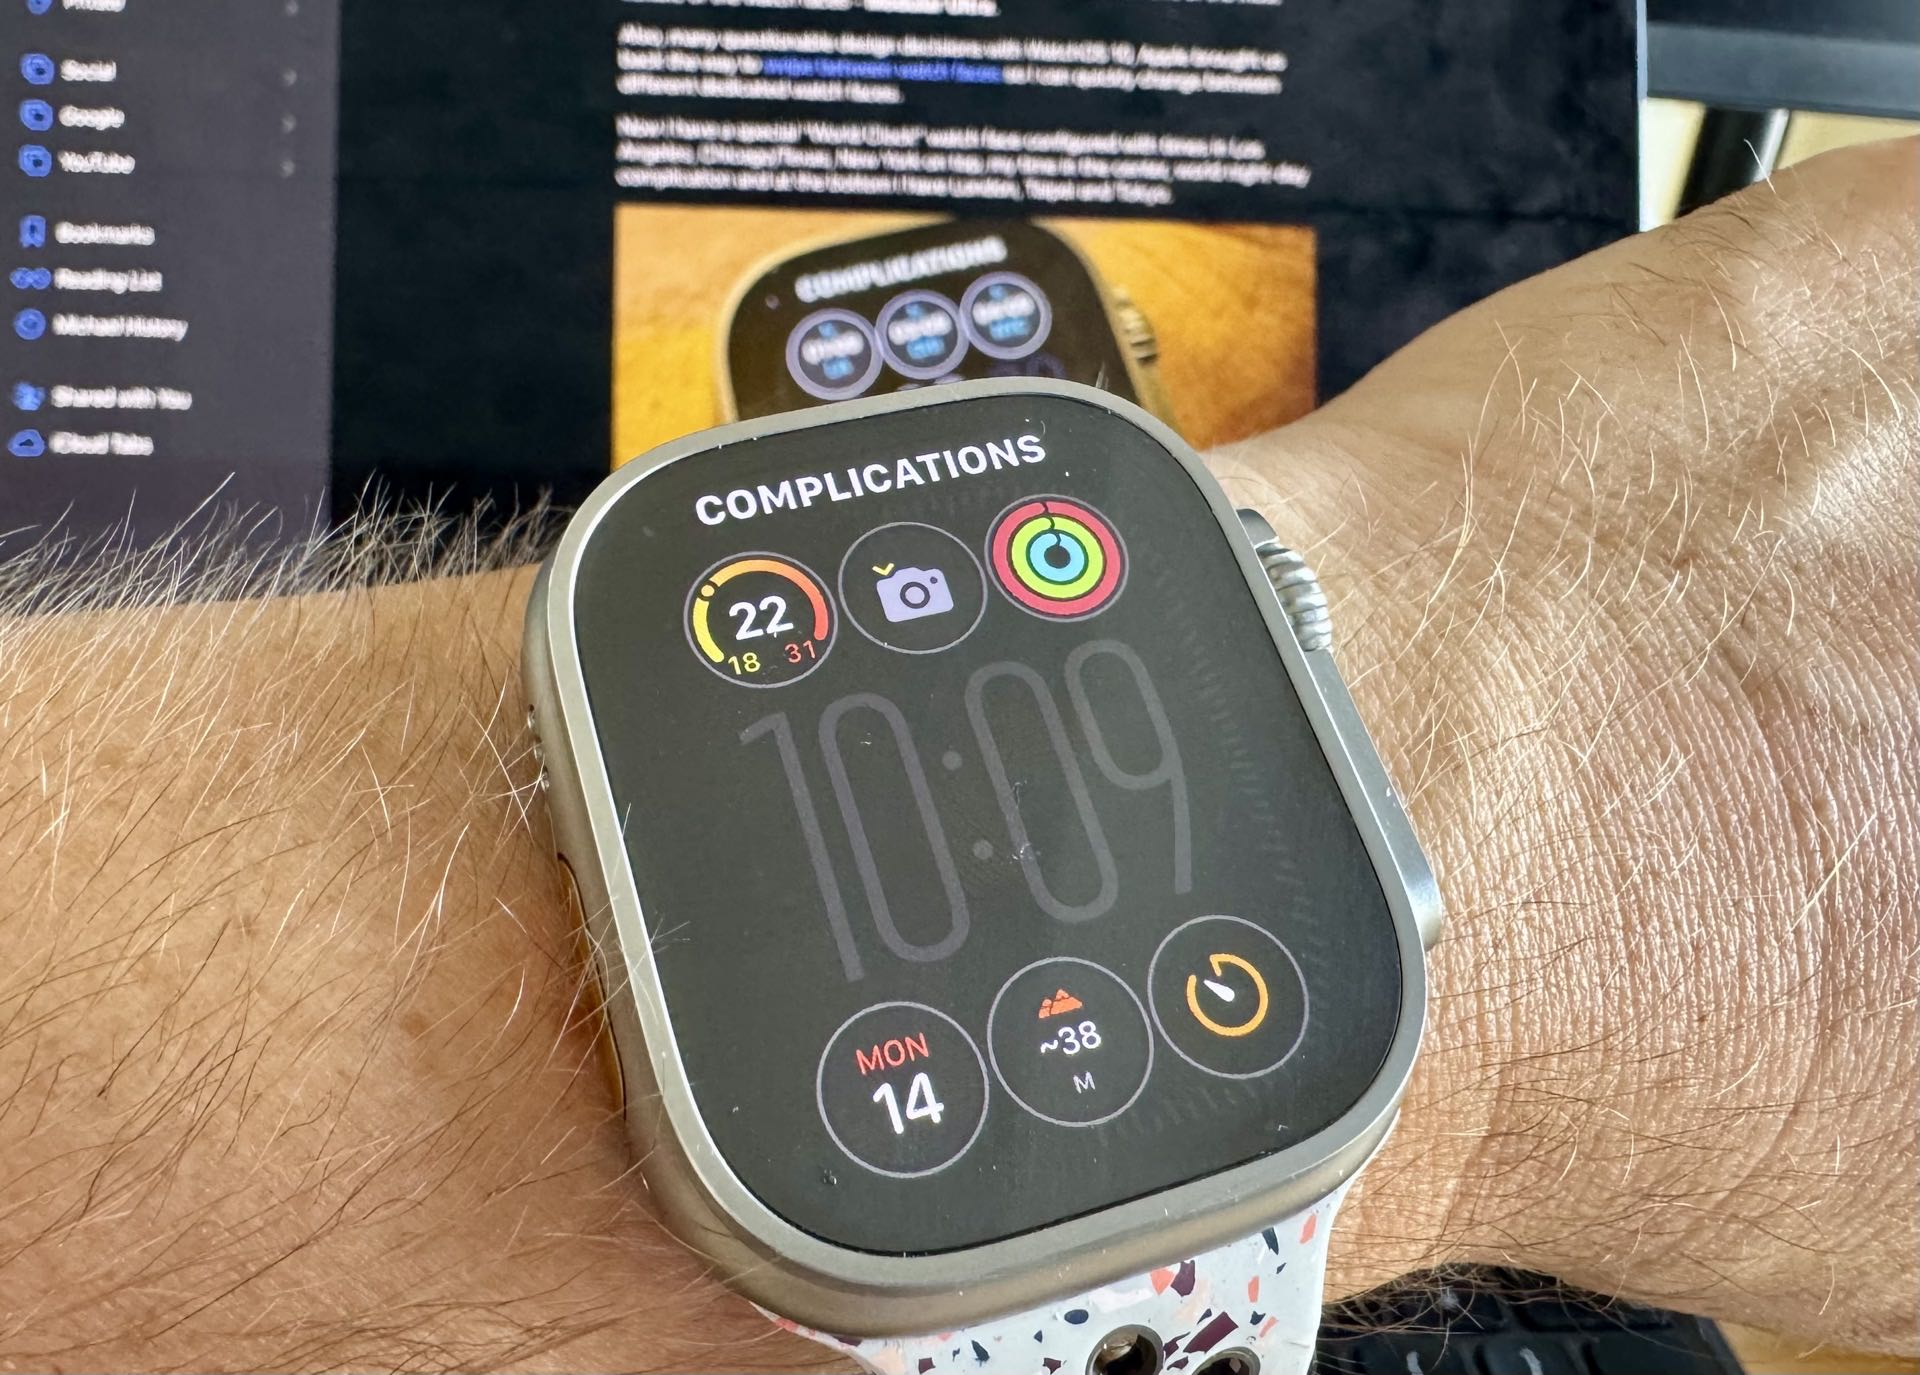
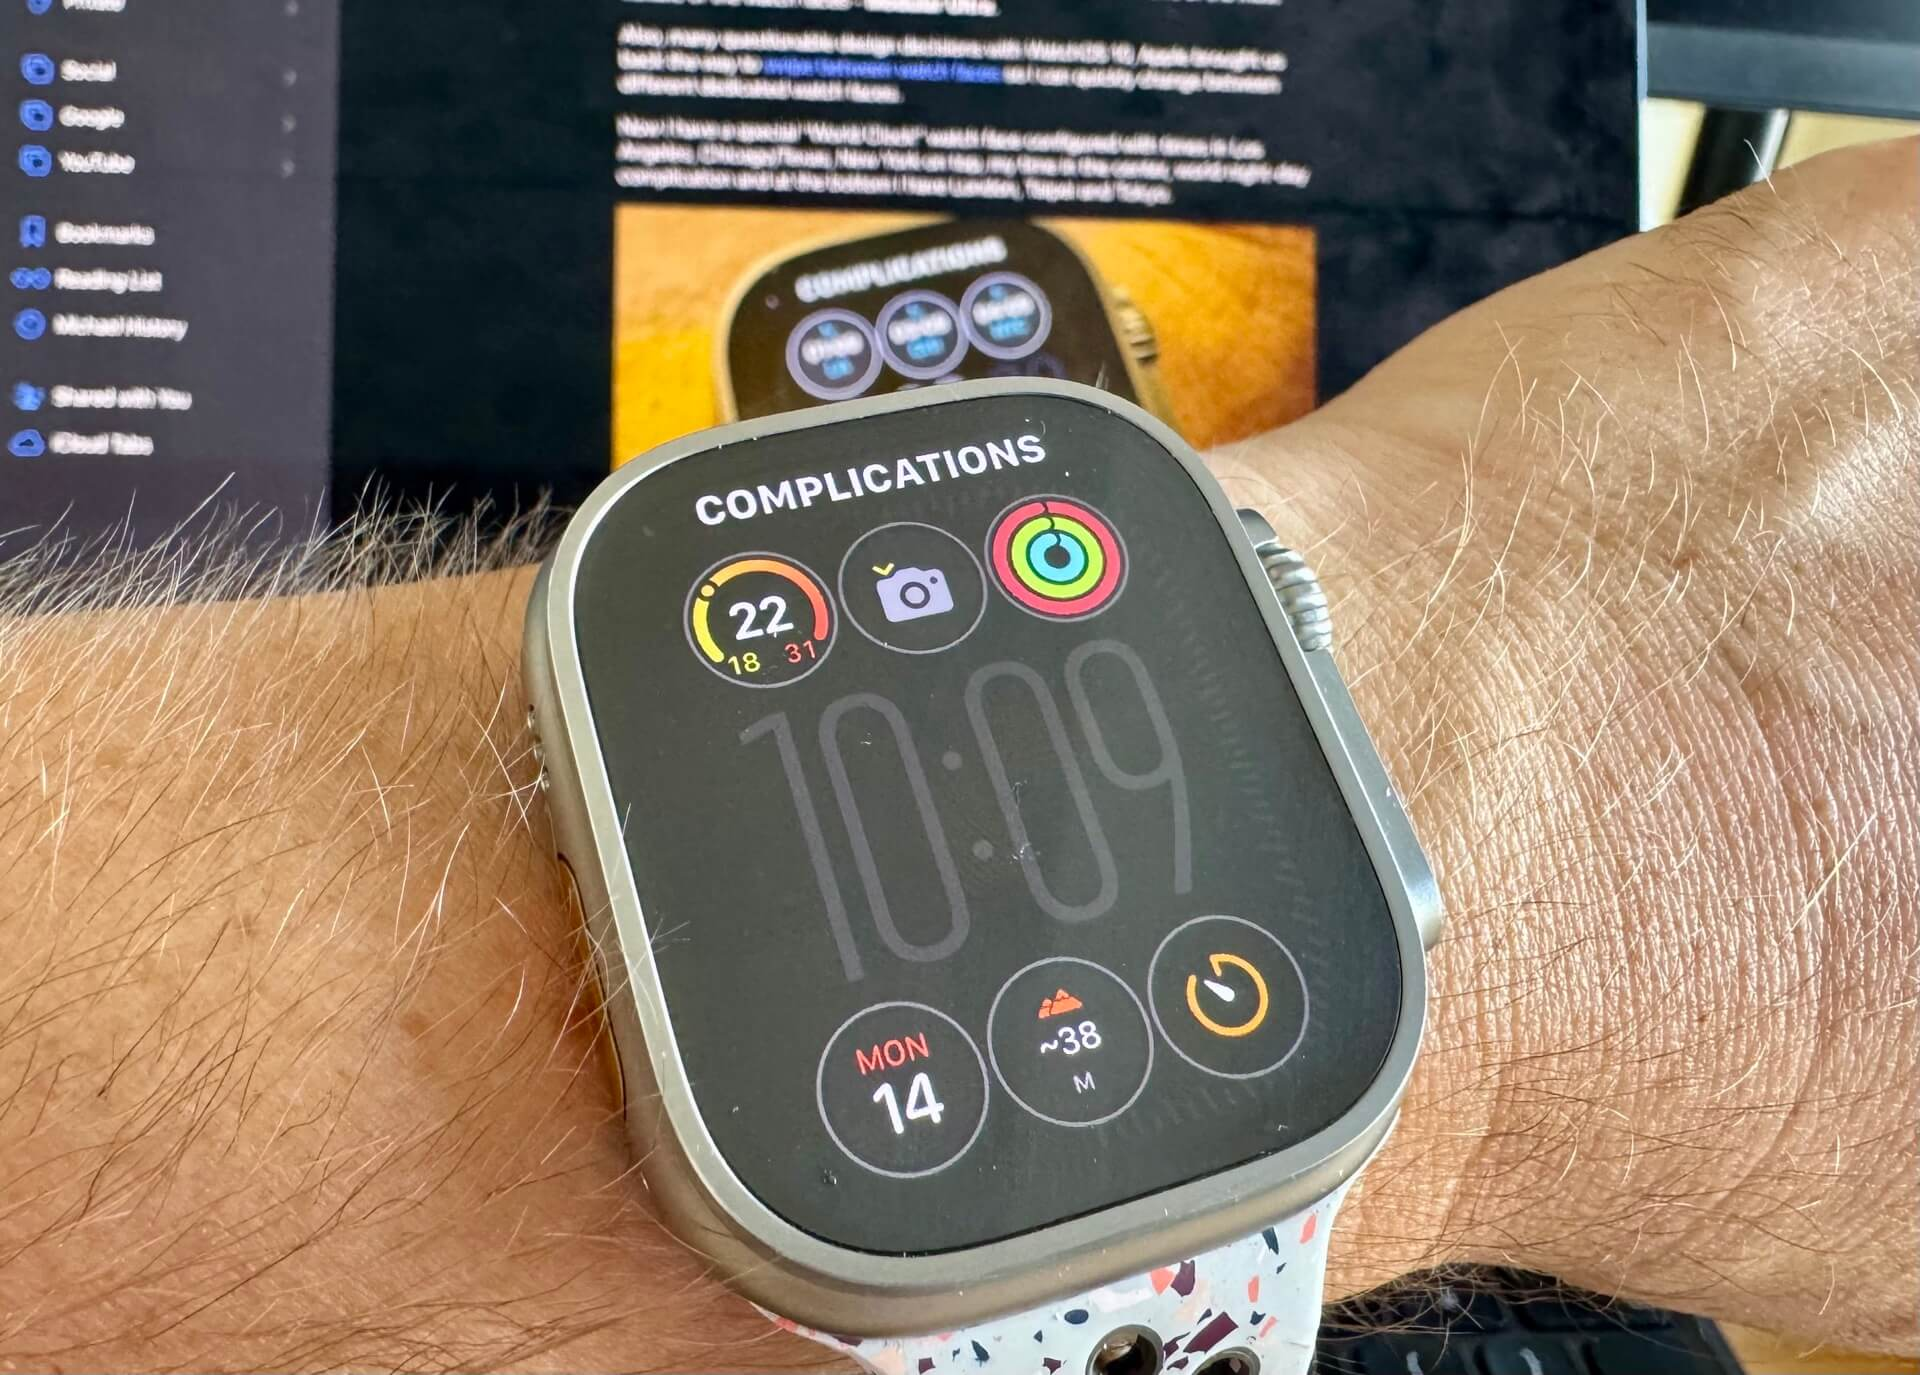
tinify

Changed region(s): [[0.5625, 0.1527, 0.6875, 0.336], [0.3125, 0.2138, 0.375, 0.336], [0.5312, 0.3665, 0.5938, 0.4276]]

diff --git a/en/_posts/2024-10-15-tinify.md b/en/_posts/2024-10-15-tinify.md
@@ -1,0 +1,57 @@
+---
+tags: [blogging]
+img: "tinify.jpg"
+---
+
+# Use Tinify (TinyJPG and TinyPNG) to compress your images
+
+When I was doing the migration from my [old blog at sliwinski.com to this one](/sliwinski_com/), I wanted to make sure this one loads fast also on mobile phones. So I painstakingly compressed all of the images using a free(ish) service called [Tinify][ty]. I wanted to both have cookie and eat it, so have lower file sizes AND great quality. I automated it using [Shortcuts](/shortcuts) and each image was reduced by between 70%-30% of the original one without visible loss of quality. Here's how I did it (and no, they are not a sponsor, I just recommend them because I like them).
+
+<!--More-->
+
+![{{ page.title }}](/img/{{ page.img }})
+
+## Reducing Images by 70-40% using Shortcuts
+
+Tinify had an [official Shortcut on their web site](https://github.com/tinify/third-party-integrations/blob/master/ios-shortcut.md) and I based my own Shortcut on it. However, recently it stopped working because of updates to Shortcuts. I investigated it and in the end I realized it was Apple's fault as they (yet again) changed how Shortcuts interpret some actions. Anyway, here's the new one:
+
+### [Compress Images with Tinify][t]
+
+Before you install this Shortcut, make sure to [get your free API key from TinyPNG web site](https://tinypng.com/developers){:target='_blank'} - their free plan is very generous - you can compress up to 500 images per month. More than enough for a small blog like mine. The Shortcut will ask you for this API key when installed.
+
+What this Shortcut does is this:
+
+- It's a Share Sheet, so if you find a photo and tap "Share" you can find this Shortcut to *tinify* this image
+- If no photo given, the Shortcut will ask you for one
+- Then you just decide on the width of your resulting image in pixels, type of image (JPG or PNG) and the resized image is sent to Tinify servers
+- The Shortcut shows you the savings in file sizes!
+- And then it displays the *tinified* image in a quick view and now you can save it to disk or send it to someone or send it to an app or your web site (using a different Shortcut?).
+
+## Examples of photos Tinified
+
+To illustrate the example of Tinify in action, let's look at two photos from [my last blog post](/summerface):
+
+- [Header photo tinified](/img/summerface.jpg) - 354 kB
+- [Header photo original](/img/summerface-original.jpg) - 504kB
+
+Reduced to 70%.
+
+Second image was reduced even more:
+
+- [Complications photo tinified](/img/summerface-complications.jpg) - 263 kB
+- [Complications photo original](/img/summerface-original-complications.jpg) - 644kB
+
+Reduced to a very tiny 40%!
+
+## My customized Tinify Shortcut
+
+For this blog and other purposes I have [a much more sophisticated Shortcut][tc] which you can get to see how I work, but it won't work for your purposes out of the box - you'd have to customize it. This Shortcut helps me set not only the image sizes, but also where to copy images and how they should be named. Feel free to check it out.
+
+Anyway, many thanks to [Tinify][ty] for providing such a great (free) service.
+
+[t]: https://www.icloud.com/shortcuts/f35d99d62c1e47728436bd2ea85285c8
+[tc]: https://www.icloud.com/shortcuts/a461d73b610b45798843715148848525
+[ty]: https://tinypng.com
+
+[n]: https://michael.gratis/nozbe
+[np]: https://michael.gratis/nozbepersonal

diff --git a/en/_posts/2024-09-25-newtodo.md b/en/_posts/2024-09-25-newtodo.md
@@ -3,6 +3,7 @@ tags: [nozbe,shortcuts]
 cover: "newtodo.jpg"
 redirect_from:
  - /NewToDo/
+ - /nozbe-todo/
 m: https://social.nozbe.com/@michael/113208942995073912
 ---
 
